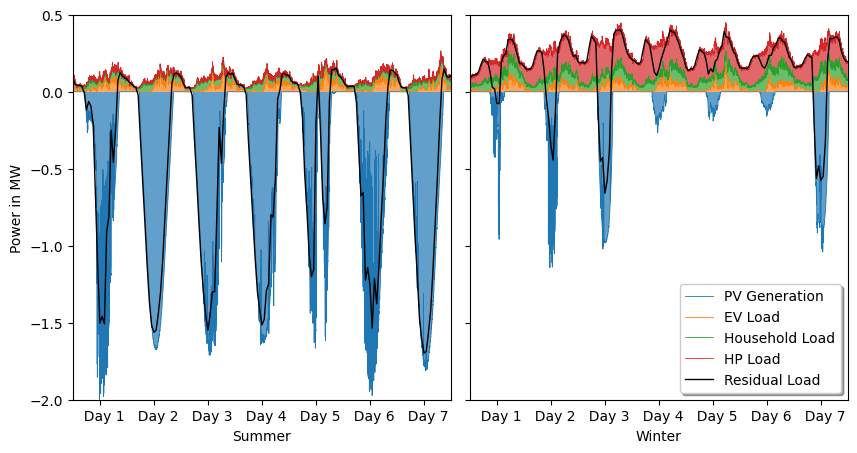
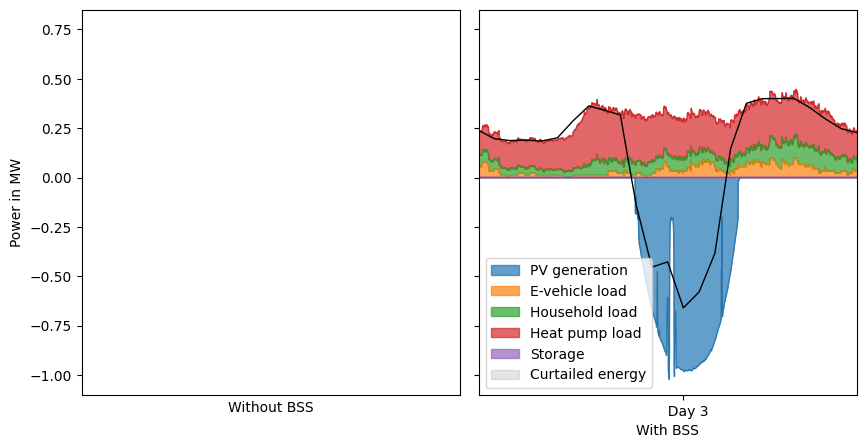
Add plot

diff --git a/src/tools/evaluation/Evaluation.py b/src/tools/evaluation/Evaluation.py
@@ -152,32 +152,77 @@ def plot_residualload_overall_eva(power, save_fig_dir=None):
   if save_fig_dir is not None:
      plt.savefig(save_fig_dir, bbox_inches='tight')
 
-def plot_residualload_subplot_overall_eva(power_summer, power_winter, save_fig_dir=None):
+def plot_residualload_subplot_overall_eva(eva1, eva2, save_fig_dir=None):
 
-  power_summer = -power_summer*1
-  power_winter = -power_winter*1
-  power = [power_summer, power_winter]
+  prop_cycle = plt.rcParams['axes.prop_cycle']
+  c = prop_cycle.by_key()['color']
+
+  power_1 = eva1['power']*1
+  power_2 = eva2['power']*1
+  power = [power_1, power_2]
+  storage_1 = -eva1['storage_power']*1
+  storage_2 = -eva2['storage_power']*1
+  storage = [storage_1, storage_2]
+  curtailed_power_1 = eva1['curtailed_power']
+  curtailed_power_2 = eva2['curtailed_power']
+  curtailed = [curtailed_power_1, curtailed_power_2]
 
   fig, ax = plt.subplots(1, 2, figsize=(10,5), sharey=True,  gridspec_kw={'wspace': .05})
   for i in [0,1]:
-    ax[i].fill_between(power[i].index, 0, power[i].pv, alpha=0.7)
-    ax[i].plot(power[i].index, power[i].pv, lw=.6)
-    ax[i].fill_between(power[i].index, 0, -power[i].ev, alpha=0.7)
-    ax[i].plot(power[i].index, -power[i].ev, lw=.6)
-    ax[i].fill_between(power[i].index, -power[i].ev, -power[i].load-power[i].ev, alpha=0.7)
-    ax[i].plot(power[i].index, -power[i].load-power[i].ev, lw=.6)
-    ax[i].fill_between(power[i].index, -power[i].load-power[i].ev, -power[i].hp-power[i].load-power[i].ev, alpha=0.7)
-    ax[i].plot(power[i].index, -power[i].hp-power[i].load-power[i].ev, lw=.6)
+    storage_sum = storage[i].sum(axis=1)
+    storage_charge = storage[i].copy()
+    storage_charge[storage_charge > 0] = 0
+    storage_charge = -storage_charge
+    storage_charge = storage_charge.sum(axis=1)
+
+    storage_discharge = storage[i].copy()
+    storage_discharge[storage_discharge < 0] = 0
+    storage_discharge = storage_discharge.sum(axis=1)
+
+    ax[i].fill_between(power[i].index,                     -storage_discharge,                     -storage_discharge - power[i].pv, alpha=0.7, color=c[0])
+    ax[i].fill_between(power[i].index,                         storage_charge,                         power[i].ev + storage_charge, alpha=0.7, color=c[1])
+    ax[i].fill_between(power[i].index,              power[i].ev + storage_charge,            power[i].load + power[i].ev + storage_charge, alpha=0.7, color=c[2])
+    ax[i].fill_between(power[i].index, power[i].load + power[i].ev + storage_charge, power[i].hp + power[i].load + power[i].ev + storage_charge, alpha=0.7, color=c[3])
+    ax[i].fill_between(power[i].index, 0 , storage_charge     , alpha=0.7, color=c[4])
+    ax[i].fill_between(power[i].index, 0 , -storage_discharge , alpha=0.7, color=c[4])
+    # curtailed power
+    ax[i].fill_between(power[i].index, power[i].hp + power[i].load + power[i].ev + storage_charge, power[i].hp + power[i].load + power[i].ev + storage_charge + curtailed[i].curtail_load, alpha=0.2, color=c[7])
+    ax[i].fill_between(power[i].index,                     -storage_discharge - power[i].pv,                       -storage_discharge - power[i].pv - curtailed[i].curtail_pv, alpha=0.2, color=c[7])
+
+    ax[i].plot(power[i].index, -storage_discharge-power[i].pv, lw=.6)
+    ax[i].plot(power[i].index, storage_charge+power[i].ev, lw=.6)
+    ax[i].plot(power[i].index, storage_charge+power[i].load+power[i].ev, lw=.6)
+    ax[i].plot(power[i].index, storage_charge+power[i].hp+power[i].load+power[i].ev, lw=.6)
+    ax[i].plot(storage[i].index, storage_charge    , lw=.6)
+    ax[i].plot(storage[i].index, -storage_discharge, lw=.6)
+
     power[i] = shorted_data(power[i], 'H')
-    ax[i].plot(power[i].index, power[i].pv-power[i].hp-power[i].load-power[i].ev, color='black', lw=1)
+    storage_sum = shorted_data(storage_sum, 'H')
+
+    ax[i].plot(power[i].index, -(power[i].pv-power[i].hp-power[i].load-power[i].ev+storage_sum), color='black', lw=1)
+    
     ax[i].set_xticks([k for k in power[i].index if (k.hour == 12) & (k.minute == 0)])
     ax[i].set_xticklabels(['  Day 1', '  Day 2', '  Day 3', '  Day 4', '  Day 5', '  Day 6', '  Day 7'])
-    ax[i].set(xlim=(power[i].index[0], power[i].index[-1]), ylim=(-2.000, .500))
-    plt.legend(['PV Generation','EV Load','Household Load','HP Load', 'Residual Load'], loc='lower right', shadow=True, markerscale=1.0)
+    ax[i].set(xlim=(power[i].index[0], power[i].index[-1]), ylim=(-1.100, .850))
+    patch_list = [
+         mpatches.Patch(color=c[0], alpha=0.7, label='Photovoltaik'),
+         mpatches.Patch(color=c[1], alpha=0.7, label='E-Auto'),
+         mpatches.Patch(color=c[2], alpha=0.7, label='Haushalt'),
+         mpatches.Patch(color=c[3], alpha=0.7, label='Wärmepumpe'),
+         mpatches.Patch(color=c[4], alpha=0.7, label='Speicher'),
+         mpatches.Patch(color=c[7], alpha=0.2, label='Abregelung')
+                 ]
+    ax[0].legend(handles=patch_list)
 
   ax[0].set_ylabel('Power in MW')
-  ax[0].set_xlabel('Summer')
-  ax[1].set_xlabel('Winter')
+  ax[0].set_xlabel('Without BSS')
+  ax[1].set_xlabel('With BSS')
+
+  time_min_1 = pd.to_datetime('2017-01-06 00:00:00+01:00', utc=True)
+  time_max_1 = pd.to_datetime('2017-01-07 00:00:00+01:00', utc=True)
+
+  ax[0].set_xlim(time_min_1, time_max_1)
+  ax[1].set_xlim(time_min_1, time_max_1)
 
   if save_fig_dir is not None:
      plt.savefig(save_fig_dir, bbox_inches='tight')

diff --git a/src/main_EVA.py b/src/main_EVA.py
@@ -89,8 +89,10 @@ evaluation.plot_heatmap_curtailed_power(eva, net_name, n, save_fig_dir=save_fig_
 
 ### Others ###
 print('Create Other plots')
-evaluation.plot_residualload_subplot_overall_eva(eva['s400n8summer']['power'], eva['s400n8winter']['power'], save_fig_dir=save_fig_dir+'plot_res_load_subplot_s40n8.png')
-evaluation.plot_residualload_subplot_overall_eva(eva['s401n8summer']['power'], eva['s401n8winter']['power'], save_fig_dir=save_fig_dir+'plot_res_load_subplot_s41n8.png')
+evaluation.plot_residualload_subplot_overall_eva(eva['s400n8summer'], eva['s400n8winter'], save_fig_dir=save_fig_dir+'plot_res_load_subplot_s40n8.png')
+evaluation.plot_residualload_subplot_overall_eva(eva['s401n8summer'], eva['s401n8winter'], save_fig_dir=save_fig_dir+'plot_res_load_subplot_s41n8.png')
+
+evaluation.plot_residualload_subplot_overall_eva(eva['s401n8winter'], eva['s621n8winter'], save_fig_dir=save_fig_dir+'plot_res_load_subplot_n8_winter.png')
 
 evaluation.plot_residualload_subplot_overall_eva_timeslot(eva['s400n8summer']['power'], eva['s400n8winter']['power'], save_fig_dir=save_fig_dir+'plot_res_load_subplot_s40n8_detailed.png')
 evaluation.plot_residualload_subplot_overall_eva_timeslot(eva['s401n8summer']['power'], eva['s401n8winter']['power'], save_fig_dir=save_fig_dir+'plot_res_load_subplot_s41n8_detailed.png')

diff --git a/src/tools/evaluation/EvaluationAllCases.py b/src/tools/evaluation/EvaluationAllCases.py
@@ -44,6 +44,7 @@ class EvaluationAllCases():
           eva[index]['SelfSufficiancy'], eva[index]['PVConsumption']= self.calculate_relevant_outputdata(eva[index]['power'], losses, trafo_p)
           eva[index]['v_under'], eva[index]['v_over'], eva[index]['v_events'], eva[index]['ll_over'], eva[index]['l_events'], eva[index]['tl_over'], eva[index]['t_events'] = self.calculate_net_problems_overall_eva(eva[index]['v'], eva[index]['ll'], eva[index]['tl'])
           eva[index]['curtailed_power'] = self.read_data(output_dir+'curtailed_power_MW.csv')
+          eva[index]['storage_power'] = self.read_data(output_dir+'storage_active_power_MW.csv')
 
           tt.compress_pickle(output_df_dir + str(index)+'.pbz2', eva[index])
     '''      

diff --git a/src/tools/evaluation/EvaluationSingleCase.py b/src/tools/evaluation/EvaluationSingleCase.py
@@ -115,7 +115,7 @@ class EvaluationSingleCase():
 
     #power = self.shorted_data(power, '1H')
     #storage = self.shorted_data(storage, '1H')
-    ax.plot(power.index, -power.pv+power.hp+power.load+power.ev-storage_sum, color='black', lw=.5)
+    ax.plot(power.index, -power.pv+power.hp+power.load+power.ev-storage_sum+losses, color='black', lw=.5)
     ax.set_xlabel('Time')
     ax.set_ylabel('Power in kW')
     '''

diff --git a/src/main_EnergyCell.py b/src/main_EnergyCell.py
@@ -95,7 +95,7 @@ net_number = 9
 #######################
 # 0: single simulation
 # 1: all scenarios and grids
-run_simulation = 0
+run_simulation = 11
 #######################
 
 #############################
@@ -171,7 +171,7 @@ elif run_simulation == 11:
   #100,
   #200,
   #300,
-  #400, 401,
+  400, 401,
   #500,
   600, 601, 610, 611, 620, 621,# 630, 631, 640, 641,
   #710, 711, 720, 721,
